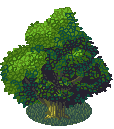
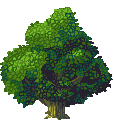
update

Changed region(s): [[0.2105, 0.7752, 0.8158, 0.9922]]

diff --git a/grid-quest/docs/project-structure.md b/grid-quest/docs/project-structure.md
@@ -25,11 +25,12 @@ grid-quest/
 │   ├── skeleton_enemy.tscn    # Medium skeleton variant
 │   └── elite_skeleton_enemy.tscn # Hard skeleton variant
 ├── level/
-│   ├── MapGrid.cs             # Grid/occupancy and map layer composition
 │   ├── EnemyTestSpawner.cs    # Temporary number-key enemy spawner
 │   ├── KnightSpawnInput.cs    # Spawns an allied knight helper on G
 │   └── map.tscn               # Gameplay map, player, enemies, and test helpers
-├── map/                       # Map tile/item definitions and factories
+├── map/                       # Map tile/item definitions, factories, and grid scene/script
+│   ├── map_grid.cs            # Grid/occupancy and map layer composition (attached script)
+│   ├── map_grid.tscn          # Reusable MapGrid scene
 │   ├── GrassFloor.cs
 │   ├── TownTree2.cs
 │   ├── TownPlant1.cs
@@ -42,9 +43,9 @@ grid-quest/
 │       ├── KnightNpc.cs       # Allied knight AI, combat, and regeneration
 │       └── knight_npc.tscn    # Knight character scene
 └── player/
-    ├── Player.cs              # Player movement, combat, health, and animations
-    ├── Player.cs.uid          # Godot-generated script UID
-    └── player.tscn            # Player character scene
+	├── Player.cs              # Player movement, combat, health, and animations
+	├── Player.cs.uid          # Godot-generated script UID
+	└── player.tscn            # Player character scene
 ```
 
 ## Player
@@ -64,7 +65,7 @@ temporary debug invulnerability (remove when no longer needed).
 
 ## Map and Tiles
 
-- `level/MapGrid.cs` (`MapGrid` in `level/map.tscn`) owns a logical 2D grid (`Width`×`Height`,
+- `map/map_grid.cs` (attached to the `MapGrid` node/scene, used in `level/map.tscn` and defined in `map/map_grid.tscn`) owns a logical 2D grid (`Width`×`Height`,
   `CellSize` default 16px) and an occupancy map. The scene configures a 20×20 map.
 - **Floor:** `map/GrassFloor.cs` builds the floor layer from
   `assets/images/map_tiles/grass/grass.png` (48×48), tiled across the map.

diff --git a/grid-quest/docs/map-architecture.md b/grid-quest/docs/map-architecture.md
@@ -33,8 +33,8 @@ Decisions for how Grid Quest represents floor tiles, walls/fences, large props (
 
 ## Current Implementation
 
-- `map/` contains one C# file per map tile/item type defining its texture/path and node/layer factory (e.g. `GrassFloor`, `TownTree2`, `TownPlant1..3`).
-- `level/MapGrid.cs` (`MapGrid` in `level/map.tscn`) owns the logical grid (`Width`×`Height`, `CellSize`), an occupancy map, and composes layers by delegating to `map/*` factories: `Floor` (grass), `Objects` (collidable tree at center, occupying its cell), and `Items` (random plants placed only on empty cells).
+- `map/` contains one C# file per map tile/item type defining its texture/path and node/layer factory (e.g. `GrassFloor`, `TownTree2`, `TownPlant1..3`) plus the grid script/scene.
+- `map/map_grid.cs` is attached as an external script to the `MapGrid` node (`map/map_grid.tscn`, instanced/used in `level/map.tscn`). It owns the logical grid (`Width`×`Height`, `CellSize`), an occupancy map, and composes layers by delegating to `map/*` factories: `Floor` (grass), `Objects` (collidable tree at center, occupying its cell), and `Items` (random plants placed only on empty cells).
 - The grid exposes helpers for future systems: `CellToWorldCenter`, `WorldToCell`, `IsInBounds`, `GetOccupant`, `TryPlaceOccupant`.
 
 This is a pragmatic, node-based/grid-occupancy approach. As content grows, static/dense layers (floor, walls/fences, bridges, static trees) can migrate to `TileMapLayer`+`TileSet` for batching while interactive objects remain grid-placed nodes tracked in occupancy.
